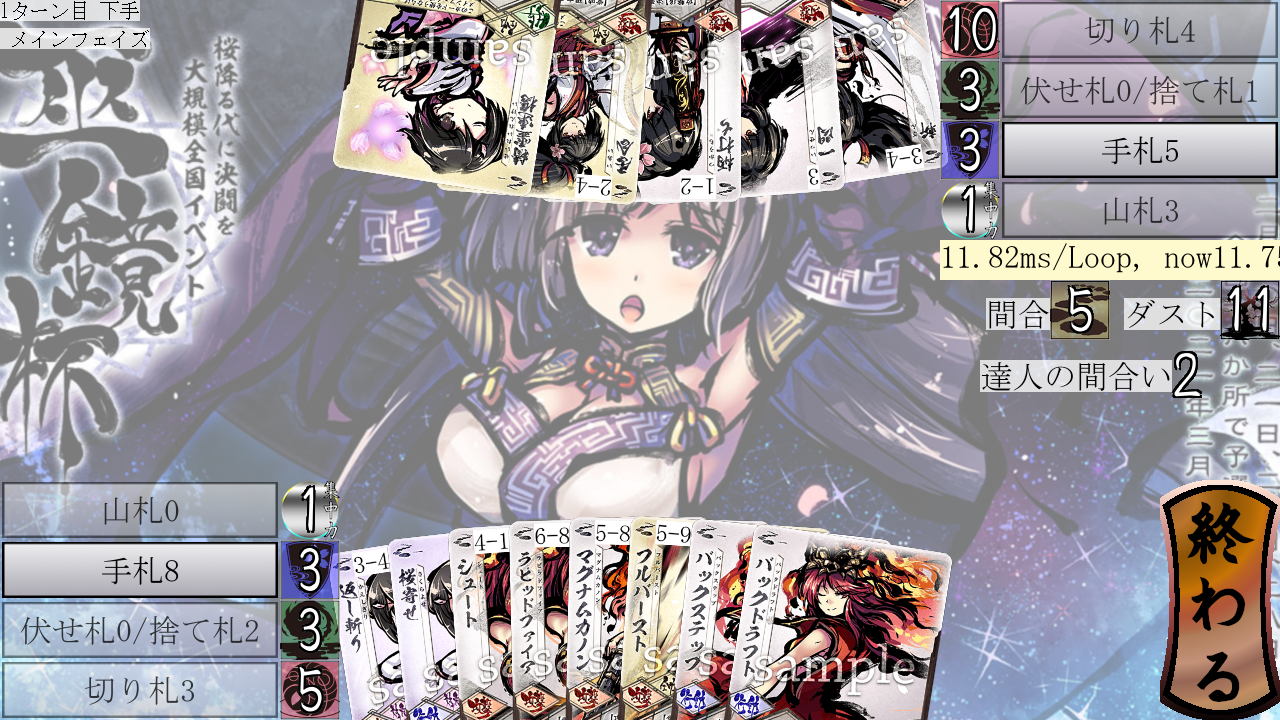
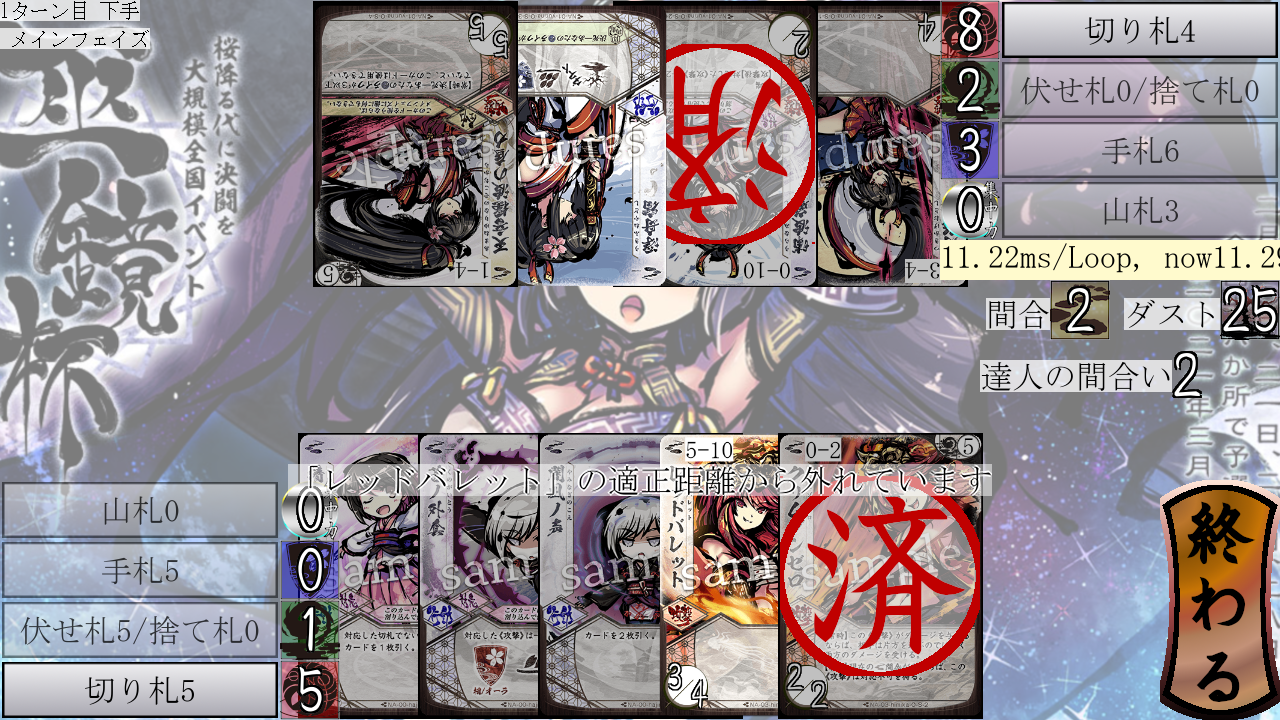
J663:レッドバレットとクリムゾン0を実装

diff --git a/kaiketus/m03o.py b/kaiketus/m03o.py
@@ -8,7 +8,7 @@ from mod.const import MG_HIMIKA, CT_KOUGEKI, CT_KOUDOU, CT_HUYO, CT_ZENRYOKU,\
     UC_AURA, UC_DUST, SC_TATUZIN, POP_OPEN, POP_ACT1, POP_ACT2, POP_ACT3, TG_END_PHASE,\
     SC_SMOKE
 from mod.classes import Callable, Card, Huda, Delivery, moderator
-from mod.card.card import auto_di, int_di, dima_di, BoolDI, SuuziDI
+from mod.card.card import auto_di, int_di, dima_di, BoolDI, SuuziDI, BoolDIC
 from mod.card.temp_koudou import TempKoudou
 from mod.coous.attack_correction import Attack, AttackCorrection, mine_cf, BoolDIIC, auto_diic
 from mod.ol.choice import choice_layer
@@ -81,4 +81,14 @@ _cfs_n_7 = ScalarCorrection(name="スモーク", cond=auto_diic, scalar=SC_SMOKE
 
 n_7 = Card(megami=MG_HIMIKA, img=img_card("o_n_7"), name="スモーク", cond=auto_di, type=CT_HUYO,
            osame=int_di(3), cfs=[_cfs_n_7])
+
+s_1 = Card(megami=MG_HIMIKA, img=img_card("o_s_1"), name="レッドバレット", cond=auto_di, type=CT_KOUGEKI,
+    aura_damage_func=int_di(3), life_damage_func=int_di(4), maai_list=dima_di(5, 10), kirihuda=True, flair=int_di(0))
+
+_cond_s_2: BoolDIC = lambda delivery, hoyuusya, card: delivery.b_params.maai != 0
+
+s_2 = Card(megami=MG_HIMIKA, img=img_card("o_s_2"), name="クリムゾンゼロ", cond=auto_di, type=CT_KOUGEKI,
+    aura_damage_func=int_di(2), life_damage_func=int_di(2), maai_list=dima_di(0, 2), kirihuda=True, flair=int_di(5),
+    taiouble=_cond_s_2, burst=True)
+
 

diff --git a/mod/mikoto.py b/mod/mikoto.py
@@ -69,10 +69,10 @@ class Mikoto():
 
     def _simote_make(self) -> None:
         from kaiketus import m00a, m00b
-        from kaiketus.m03o import n_1, n_2, n_3, n_4, n_5, n_6, n_7
+        from kaiketus.m03o import n_1, n_2, n_3, n_4, n_5, n_6, n_7, s_1, s_2
         self.yamahuda = yamahuda_factory.maid_by_cards(cards=[], hoyuusya=self.hoyuusya)
         self.tehuda = tehuda_factory.maid_by_cards(cards=[m00b.n_4, m00b.n_5, m00b.n_6, n_1, n_2, n_3, n_4, n_5, n_6, n_7], hoyuusya=self.hoyuusya)
-        self.kirihuda = kirihuda_factory.maid_by_cards(cards=[m00b.s_3, m00a.s_3, m00a.s_2], hoyuusya=self.hoyuusya)
+        self.kirihuda = kirihuda_factory.maid_by_cards(cards=[m00b.s_3, m00a.s_3, m00a.s_2, s_1, s_2], hoyuusya=self.hoyuusya)
 
     def _kamite_make(self) -> None:
         from kaiketus import m00a, m00b
